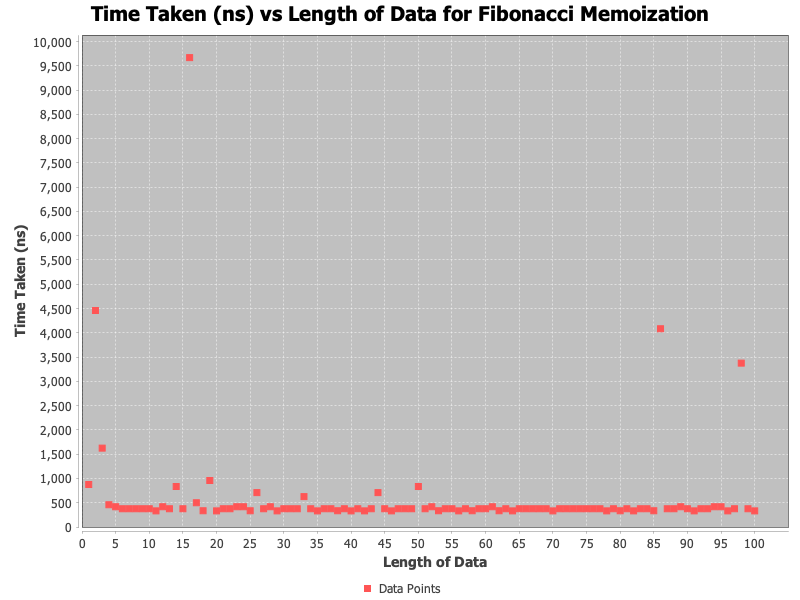
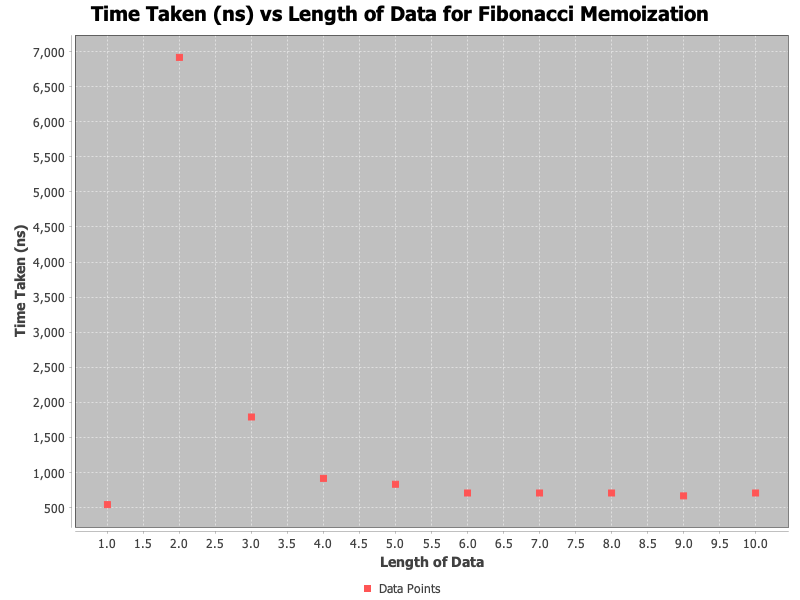
nn

diff --git a/src/main/java/com/nighthawk/spring_portfolio/fibo/FibonacciMemoizationVisualization.java b/src/main/java/com/nighthawk/spring_portfolio/fibo/FibonacciMemoizationVisualization.java
@@ -32,7 +32,7 @@ public class FibonacciMemoizationVisualization {
 
     private static int getUserInput() {
         // testing fixed value of 10
-        return 10;
+        return 100;
     }
     
     private static int fibonacciMemoization(int n) {
